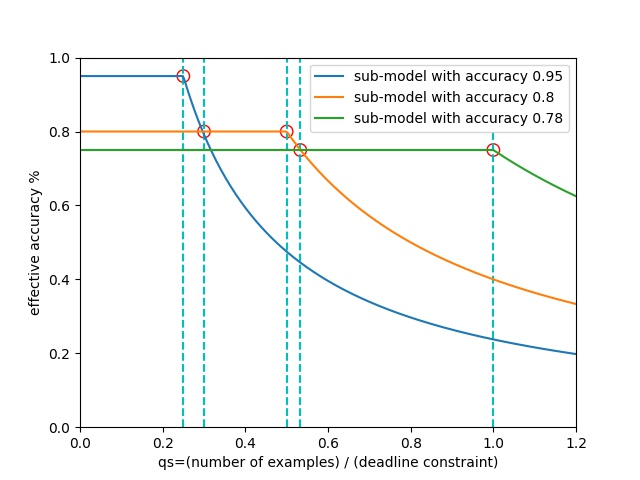
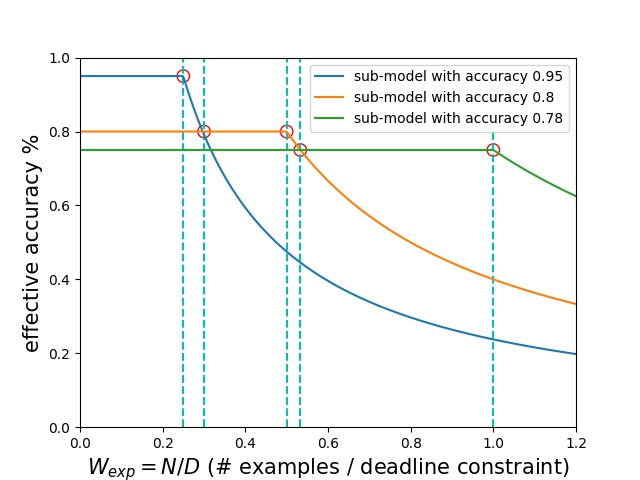
update col num

Changed region(s): [[0.125, 0.9375, 0.9062, 1.0], [0.0312, 0.2812, 0.0625, 0.75]]

diff --git a/experiments/Speed.py b/experiments/Speed.py
@@ -10,12 +10,10 @@ def drawBasic(tlist, x, slicerate):
      pots = []
 
      for k in range(len(tlist)):
-          interval0 = [1/tlist[k] if (r < (1/tlist[k])) else 0 for r in x]
-          interval1 = [(1/tlist[k])*(1/tlist[k])/r if (r > (1/tlist[k])) else 0 for r in x]
-          y1 = numpy.array(interval0) + numpy.array(interval1)
+          interval0 = [1/tlist[k] for r in x]
+          y1 = interval0
           y.append(y1)
           label.append('sub-model with $r_i$ = ' + str(slicerate[k]) + ", $t_i=$" + str(tlist[k]) + "$s$")
-
 
           tmp = []
           for x_ in x:
@@ -29,40 +27,35 @@ def drawBasic(tlist, x, slicerate):
      return y, label, pots
 
 
-x = [1, 50, 80, 100, 200, 300, 400, 540, 800, 910, 1020, 1282, 1322, 1342, 1352, 1362, 1372, 1382, 1392, 1402, 1412, 1422, 1442, 1472, 1502, 1512, 1522, 1532, 1542, 1552, 1562, 1572]
+# x_5s = [1, 50, 80, 100, 200, 300, 400, 540, 800, 910, 1020, 1282, 1342, 1352, 1362, 1372, 1382, 1392, 1402, 1412, 1422, 1442, 1472, 1502, 1512, 1522, 1532, 1542, 1552, 1572]
+x = [1, 50, 80, 100, 100, 200, 300, 400, 500, 600, 700, 800, 900, 1000, 1100, 1200, 1400, 1500, 1600, 1700, 1800, 1900, 2000, 2100, 2400, 2500, 2600, 2700, 2800, 3000, 3200, 3500, 3600, 3700, 3800, 3900, 4000, 4100, 4300, 4700, 5100, 6000]
+
 
 y, label, pots = drawBasic([0.0126, 0.0071, 0.00315, 0.00084], x, [1, 0.75, 0.5, 0.25])
 print(y)
 
 fig=plt.figure(figsize=(10,10))
 ax=fig.add_subplot(111)
-ax.axis([0, 1500, 0, 1300])
+ax.axis([0, 5500, 0, 1650])
 
 line_sym = ["-", "--", "-.", "-"]
 pot_sym = ["o", ">", "<", "x"]
 colors = ['blue', 'brown', 'aqua', 'green']
 
 for i in range(len(y)):
-     ax.plot(x, y[i],line_sym[i], marker=pot_sym[i], ms=6, label=label[i], linewidth=2, color=colors[i])
+     ax.plot(x, y[i],line_sym[i], marker=pot_sym[i], ms=10, label=label[i], linewidth=2, color=colors[i])
 
-y_sche = [79.36507936507937, 79.36507936507937, 80.90207914151576, 108.87547507265816, 235.33422758774873, 309.8069900886802, 564.0873015873016, 808.9359200470311, 1036.6071428571427, 1093.5810221524505, 1138.2664176781823, 1105.0442017680707, 1071.6086737266767, 1055.6383507203177, 1047.8303747534517, 1040.1370533529123, 1032.5558794946548, 1025.0844187168354, 1017.7203065134099, 1010.4612458392771, 1003.3050047214351, 996.2494139709328, 982.431807674526, 962.409420289855, 943.1868619618286, 936.9488536155203, 930.7928164695575, 924.7171453437771, 918.7202766969303, 912.8006872852234, 906.9568928723858, 901.1874469889736]
+y_sche = [79.36507936507937, 79.36507936507937, 79.36507936507937, 79.36507936507937, 79.36507936507937, 79.36507936507937, 79.36507936507935, 100.12515644555694, 125.14078338130396, 150.02625459455405, 175.07440662281468, 200.1350911865509, 225.2083176938668, 250.04688379071075, 275.1203651597574, 300.20639189442744, 350.103280467738, 375.03187770960534, 400.18108193957767, 425.1030874987185, 450.01462547532793, 475.1900760304122, 500.0950180534302, 525.2928507643011, 600.3031530923116, 625.1844294066749, 650.0552546966492, 675.3055757730373, 700.1697911743597, 750.3001200480192, 800.4462487836969, 875.442098259621, 900.265578345612, 925.0786316836931, 950.4300696064969, 975.2364948500011, 1000.0325010562843, 1025.4101640656263, 1075.5996468030926, 1175.346727284549, 1190.4761904761904, 1190.4761904761904]
 ax.plot(x, y_sche, "--", marker='*', ms=10, label="combine of sub-models", linewidth=2)
-
-
-for k in range(len(pots)):
-     ele = pots[k]
-     for i in range(len(ele)):
-          xc1, yc1 = ele[i]
-          ax.plot(xc1, yc1, line_sym[k], marker=pot_sym[k], ms=10, color=colors[k])
 
 
 plt.legend(fontsize=15)
 plt.xticks(fontsize=20)
 plt.yticks(fontsize=20)
-ax.set_xlabel('Workload(#examples/second)', fontsize=20)
-ax.set_ylabel('Effective speed', fontsize=20)
+ax.set_xlabel('Ingesting rate(#examples/second)', fontsize=20)
+ax.set_ylabel('Images being processed/second', fontsize=20)
 plt.grid(linestyle='-.')
-plt.savefig('./Speed.jpg')
+plt.savefig('./images_second.jpg')
 plt.show()
 # 每妙发送500条
 

diff --git a/experiments/latency.py b/experiments/latency.py
@@ -1,8 +1,10 @@
+import random
 
 import matplotlib.pyplot as plt
 from matplotlib.patches import Polygon
 import matplotlib.pyplot as plt
 import numpy as np
+
 
 
 def drawBasic(tlist, x, slicerate):
@@ -12,10 +14,9 @@ def drawBasic(tlist, x, slicerate):
      pots = []
 
      for k in range(len(tlist)):
-          interval0 = [i if (i < 1/tlist[k]) else 0 for i in x]
-          interval1 = [1 if (i > 1/tlist[k]) else 0 for i in x]
-          y1 = numpy.array(interval0) + (1/tlist[k]) * numpy.array(interval1)
-          y.append(y1)
+          interval0 = [x_i *tlist[k]  for x_i in x]
+          y_1 = interval0
+          y.append(y_1)
           label.append('sub-model with $r_i$ = ' + str(slicerate[k]) + ", $t_i=$" + str(tlist[k]) + "$s$")
           if k==0:
                tmp = []
@@ -47,46 +48,41 @@ def drawBasic(tlist, x, slicerate):
 
      return y, label, pots
 
-
 import numpy
-x = numpy.array([0, 1, 50, 80, 100, 200, 300, 400, 540, 800,  910, 1020, 1282, 1500])
+
+x = [1, 50, 80, 100, 100, 200, 300, 400, 500, 600, 700, 800, 900, 1100, 1200, 1300, 1600, 1700, 1900, 2100, 2300, 2500, 2600, 2700, 2800, 2900, 3000, 3100, 3200, 3300, 3400, 3900, 4000]
+x = numpy.array(x)
 print(x)
-y, label, pots = drawBasic([0.0126, 0.0071, 0.00315, 0.00084], x, [1, 0.75, 0.5, 0.25])
+y, label, pots = drawBasic([0.0126, 0.0071, 0.00315, 0.00079], x, [1, 0.75, 0.5, 0.25])
 
 
 fig=plt.figure(figsize=(10, 10))
 ax=fig.add_subplot(111)
-ax.axis([0, 1550, 0, 1400])
+ax.axis([0, 1600, 0, 2])
 
 line_sym = ["-", "--", "-.", "-"]
 pot_sym = ["o", ">", "<", "x"]
 colors = ['blue', 'brown', 'aqua', 'green']
 for i in range(len(y)):
-     ax.plot(x, y[i], line_sym[i], marker=pot_sym[i], ms=6, label=label[i], linewidth=2,  color=colors[i])
-
-ax.plot(x, y[len(y)-1], label="combine of sub-models", linewidth=2)
-
+     y_i = [ele-random.randrange(1,3)*0.01 for ele in y[i]]
+     ax.plot(x, y_i, line_sym[i], marker=pot_sym[i], ms=10, label=label[i], linewidth=2,  color=colors[i])
 
 
-for k in range(len(pots)):
-     ele = pots[k]
-     for i in range(len(ele)):
-          xc1, yc1 = ele[i]
-          ax.plot(xc1, yc1, line_sym[k], marker=pot_sym[k], ms=10, color=colors[k])
+ysch_ = [0.0126, 0.63, 0.997, 0.996, 0.996, 0.99735, 0.9963500000000001, 0.99804, 0.99916, 0.99792, 0.99904, 0.9978, 0.99892, 0.9988, 0.99992, 1.027, 1.264, 1.343, 1.501, 1.6589999999999998, 1.817, 1.975, 2.0540000000000003, 2.133, 2.2119999999999997, 2.291, 2.37, 2.449, 2.528, 2.607, 2.686, 3.0810000000000004, 3.16]
 
+ysh = [ele-random.randrange(1,3)*0.01 if (ele<1200) else ele for ele in ysch_]
 
-# for j in range(len(pots)):
-#      xc1, yc1 = pots[j]
-#      ax.scatter(xc1, yc1, s=50, facecolors='none', edgecolors='r')
+ax.plot(x, ysh,"--", marker='*', ms=10, label="combine of sub-models", linewidth=2)
 
-
+plt.hlines(1.01, 0, 4500, label="deadline constrain=1s", linewidth=4, color="red")
+#
 plt.legend(fontsize=15)
 plt.xticks(fontsize=20)
 plt.yticks(fontsize=20)
 ax.set_xlabel('Ingesting rate(#examples/second)', fontsize=20)
-ax.set_ylabel('Throughput', fontsize=20)
+ax.set_ylabel('Latency(second)', fontsize=20)
 plt.grid(linestyle='-.')
-plt.savefig('./throughput.jpg')
+plt.savefig('./latency.jpg')
 plt.show()
 
 

diff --git a/experiments/EffeciveSpeed.py b/experiments/EffeciveSpeed.py
@@ -1,0 +1,75 @@
+
+import matplotlib.pyplot as plt
+import numpy
+
+
+def drawBasic(tlist, x, slicerate):
+
+     y = []
+     label = []
+     pots = []
+
+     for k in range(len(tlist)):
+          interval0 = [1/tlist[k] if (r < (1/tlist[k])) else 0 for r in x]
+          interval1 = [(1/tlist[k])*(1/tlist[k])/r if (r > (1/tlist[k])) else 0 for r in x]
+          y1 = numpy.array(interval0) + numpy.array(interval1)
+          y.append(y1)
+          label.append('sub-model with $r_i$ = ' + str(slicerate[k]) + ", $t_i=$" + str(tlist[k]) + "$s$")
+
+
+          tmp = []
+          for x_ in x:
+               if x_ < 1/tlist[k]:
+                    y_ = 1/tlist[k]
+               else:
+                    y_ =(1/tlist[k])*(1/tlist[k])/x_
+               tmp.append([x_, y_])
+          pots.append(tmp)
+
+     return y, label, pots
+
+
+x = [1, 50, 80, 100, 200, 300, 400, 540, 800, 910, 1020, 1282, 1322, 1342, 1352, 1362, 1372, 1382, 1392, 1402, 1412, 1422, 1442, 1472, 1502, 1512, 1522, 1532, 1542, 1552, 1562, 1572]
+
+y, label, pots = drawBasic([0.0126, 0.0071, 0.00315, 0.00084], x, [1, 0.75, 0.5, 0.25])
+print(y)
+
+fig=plt.figure(figsize=(10,10))
+ax=fig.add_subplot(111)
+ax.axis([0, 1500, 0, 1300])
+
+line_sym = ["-", "--", "-.", "-"]
+pot_sym = ["o", ">", "<", "x"]
+colors = ['blue', 'brown', 'aqua', 'green']
+
+for i in range(len(y)):
+     ax.plot(x, y[i],line_sym[i], marker=pot_sym[i], ms=6, label=label[i], linewidth=2, color=colors[i])
+
+y_sche = [79.36507936507937, 79.36507936507937, 80.90207914151576, 108.87547507265816, 235.33422758774873, 309.8069900886802, 564.0873015873016, 808.9359200470311, 1036.6071428571427, 1093.5810221524505, 1138.2664176781823, 1105.0442017680707, 1071.6086737266767, 1055.6383507203177, 1047.8303747534517, 1040.1370533529123, 1032.5558794946548, 1025.0844187168354, 1017.7203065134099, 1010.4612458392771, 1003.3050047214351, 996.2494139709328, 982.431807674526, 962.409420289855, 943.1868619618286, 936.9488536155203, 930.7928164695575, 924.7171453437771, 918.7202766969303, 912.8006872852234, 906.9568928723858, 901.1874469889736]
+ax.plot(x, y_sche, "--", marker='*', ms=10, label="combine of sub-models", linewidth=2)
+
+
+for k in range(len(pots)):
+     ele = pots[k]
+     for i in range(len(ele)):
+          xc1, yc1 = ele[i]
+          ax.plot(xc1, yc1, line_sym[k], marker=pot_sym[k], ms=10, color=colors[k])
+
+
+plt.legend(fontsize=15)
+plt.xticks(fontsize=20)
+plt.yticks(fontsize=20)
+ax.set_xlabel('Workload(#examples/second)', fontsize=20)
+ax.set_ylabel('Effective speed', fontsize=20)
+plt.grid(linestyle='-.')
+plt.savefig('./EffectiveSpeed.jpg')
+plt.show()
+# 每妙发送500条
+
+
+
+
+
+
+
+

diff --git a/experiments/scheduler.py b/experiments/scheduler.py
@@ -161,21 +161,27 @@ if __name__ == '__main__':
     # test3()
     # testAny([0.95, 0.8, 0.75], [4, 2, 1])
 
-    N_list = [1, 50, 80, 100, 200, 300, 400, 540, 800,  910, 1020]
+    # N_list = [1, 50, 80, 100, 200, 300, 400, 540, 800, 910, 1020, 1282, 1500]
+    N_list = [1, 50, 80, 100]
 
-    base = 1282
-    for i in range(30):
+    base = 100
+    for i in range(40):
         N_list.append(base)
-        base+=10
+        base += 100
 
-    processd = []
+    effective_speed_list = []
+    speed_list = []
     used_list = []
+    time_list = []
+    delay_list = []
 
     y = []
-    times = [0.0126, 0.0071, 0.00315, 0.00084]
+    times = [0.0126, 0.0071, 0.00315, 0.00079]
     ps = [0.7609, 0.7374, 0.7109, 0.6391]
 
     for N in N_list:
+        if N in [ 1500]:
+            continue
         try:
             res, combs = testAny(ps,
                                  times,
@@ -183,15 +189,26 @@ if __name__ == '__main__':
                                  D=1)
             y.append(res)
             print("When N is", N, " testAny's result:", res, combs)
-            speed = 0
-
+            effective_speed = 0
+            n_i = 0
+            used_time = 0
             for m in range(len(combs)):
-                speed += (combs[m]/N) * (1/times[m])
-            processd.append(speed)
+                used_time += combs[m]*times[m]
+                effective_speed += (combs[m]/N) * (1/times[m])
+                n_i += combs[m]
+
+            if N > n_i:
+                delay = used_time+(N-n_i)*0.00079
+            else:
+                delay = used_time
+            effective_speed_list.append(effective_speed)
             used_list.append(N)
+            time_list.append(used_time)
+            speed_list.append(n_i/used_time)
+            delay_list.append(delay)
         except Exception as e:
             print("-------------Error when N is", N, " ", e)
 
     print(used_list)
-    print(processd)
+    print(delay_list)
 

diff --git a/experiments/effitive_accuracy_plot.py b/experiments/effitive_accuracy_plot.py
@@ -88,7 +88,7 @@ ax.plot(x, ySch, "--", marker='*', ms=12, label="combine of sub-models", linewid
 plt.legend(fontsize=15)
 plt.xticks(fontsize=20)
 plt.yticks(fontsize=20)
-ax.set_xlabel('d=N/D (# examples / deadline constraint)', fontsize=20)
+ax.set_xlabel('$W_{exp}=N/D$ (# examples / deadline constraint)', fontsize=20)
 ax.set_ylabel('effective accuracy %', fontsize=20)
 plt.grid(linestyle='-.')
 plt.savefig('./effective accuracy.jpg')

diff --git a/experiments/ideal_effitive_accuracy_plot.py b/experiments/ideal_effitive_accuracy_plot.py
@@ -40,8 +40,8 @@ y4 = interval01 + \
 
 plt.xlim((0, 1.2))
 plt.ylim((0, 1))
-plt.xlabel('qs=(number of examples) / (deadline constraint)')
-plt.ylabel('effective accuracy %')
+plt.xlabel('$W_{exp}=N/D$ (# examples / deadline constraint)', fontsize=15)
+plt.ylabel('effective accuracy %', fontsize=15)
 
 
 plt.plot(x, y1, label='sub-model with accuracy 0.95')
